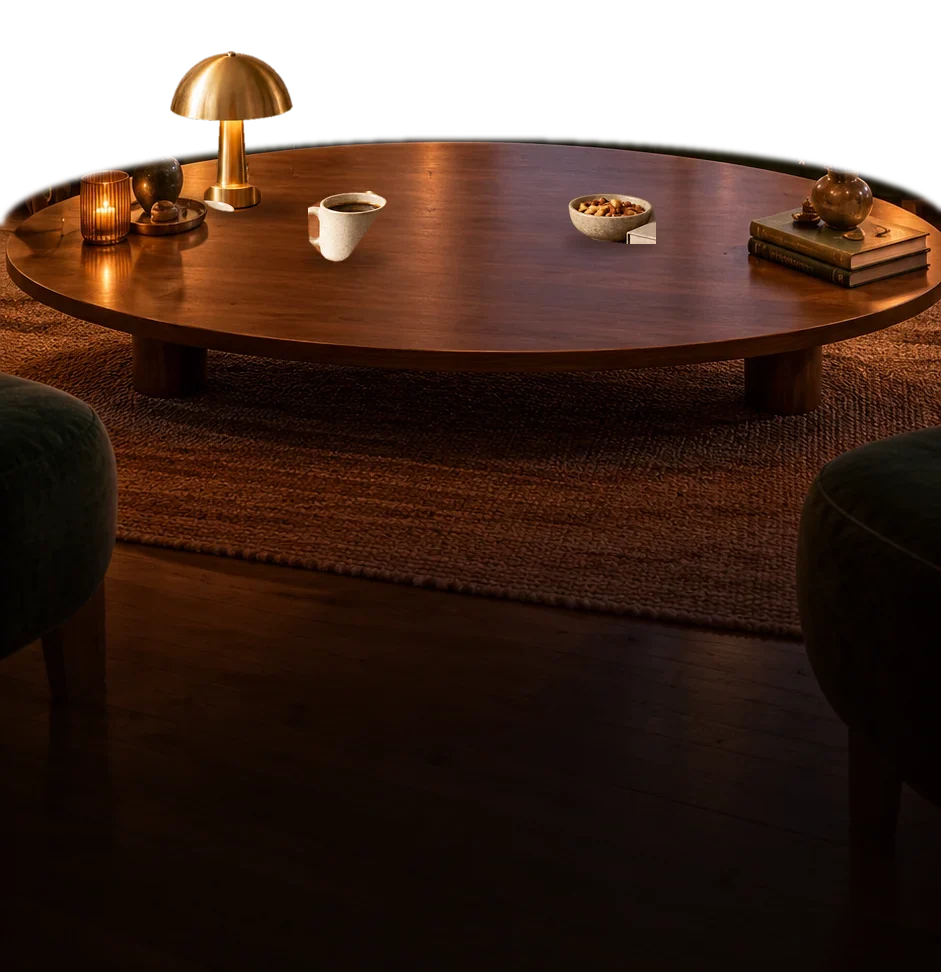
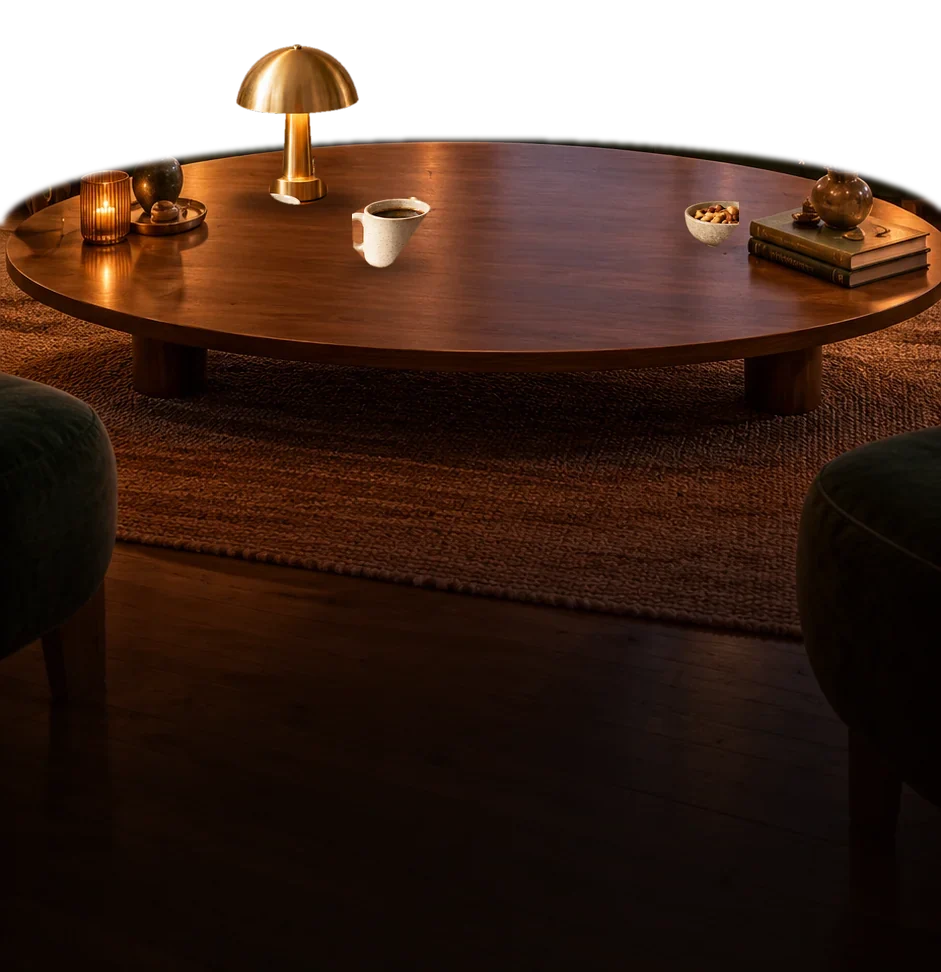
Ensemble : les fantômes s'assoient vraiment sur le canapé
Ils étaient posés devant le canapé, leur bas caché par la table. Ils
s'assoient maintenant au milieu des coussins relevés sur la photo (370, 582,
790), le bas sur l'assise et la tête au-dessus du dossier, avec une ombre de
contact sur le coussin et une ombre douce sur le dossier. Le cadrage
s'élargit pour garder les trois places ; la lampe, la tasse et le bol sont
reposés pour ce cadrage, et le partage réel s'installe entre eux.

Claude-Session: https://claude.ai/code/session_01C9atY36YJveCS87MrysGbG

Changed region(s): [[0.1849, 0.0309, 0.4623, 0.3086], [0.5855, 0.1852, 0.8013, 0.2778]]

diff --git a/src/app/autour-de-moi/alcove.tsx b/src/app/autour-de-moi/alcove.tsx
@@ -59,17 +59,17 @@ export const DECOR = {
   devantY: 700,
   l: 941,
   h: 1672,
-  cadre: { x0: 205, x1: 735, assise: 790, part: 0.47 },
-  /** Le milieu de chaque place, de gauche à droite. */
-  places: [300, 470, 640],
-  /** Le bas des fantômes : juste sous le bord arrière du plateau (≈ 840). */
-  bas: 872,
-  /** La hauteur d'un fantôme assis. */
-  hauteur: 205,
+  cadre: { x0: 265, x1: 895, assise: 790, part: 0.47 },
+  /** Le milieu de chaque coussin occupé, de gauche à droite (relevé sur la photo). */
+  places: [370, 582, 790],
+  /** Le bas des fantômes : posé sur l'assise (de 735 au fond à 775 au bord), pas devant. */
+  bas: 795,
+  /** La hauteur d'un fantôme assis : la tête dépasse du dossier (haut vers 620). */
+  hauteur: 215,
   /** Le creux du coussin, pour la place libre. */
-  coussin: 772,
+  coussin: 755,
   /** Le centre de la zone libre du plateau, et la largeur d'une photo posée. */
-  plateau: { x: 470, y: 922, l: 150 },
+  plateau: { x: 545, y: 930, l: 150 },
 } as const;
 
 const reduit = () => typeof window !== "undefined" && window.matchMedia?.("(prefers-reduced-motion: reduce)").matches;
@@ -113,7 +113,7 @@ export function cadrage(W: number, H: number) {
   if (l * s < W) s = W / l;
   const ox = Math.min(Math.max(((cadre.x0 + cadre.x1) / 2) * s - W / 2, 0), l * s - W);
   // Petit écran : la scène remonte un peu, pour laisser la table au-dessus du titre.
-  const part = H < 600 ? cadre.part - 0.05 : cadre.part;
+  const part = H < 600 ? cadre.part - 0.01 : cadre.part;
   const oy = Math.min(Math.max(cadre.assise * s - part * H, 0), h * s - H);
   return { s, ox, oy, x: (v: number) => v * s - ox, y: (v: number) => v * s - oy };
 }
@@ -171,13 +171,18 @@ export function Alcove({
                   key={k}
                   className="al-coussin"
                   aria-hidden="true"
-                  style={{ left: x, top: c.y(DECOR.coussin), width: 150 * c.s, height: 80 * c.s }}
+                  style={{ left: x, top: c.y(DECOR.coussin), width: 190 * c.s, height: 70 * c.s }}
                 />
               );
             const img = p.qui === "moi" ? imageAssis("moi", decor) : imageAssis(p.qui, decor);
             const miroir = !img.frontal && k === places.length - 1;
             const arrive = p.qui === "moi" && installe && !calme;
-            return (
+            const lf = hf * img.r;
+            return [
+              // ASSIS POUR DE VRAI : l'ombre sur le dossier derrière lui, et
+              // celle de contact où il pèse sur le coussin.
+              <i key={`d${k}`} className="al-ombre-dos" aria-hidden="true" style={{ left: x + lf * 0.06, top: haut + hf * 0.42, width: lf * 0.95, height: hf * 0.5 }} />,
+              <i key={`c${k}`} className="al-ombre-assise" aria-hidden="true" style={{ left: x, top: c.y(DECOR.bas) - 6 * c.s, width: lf * 1.05, height: 30 * c.s }} />,
               // eslint-disable-next-line @next/next/no-img-element
               <img
                 key={k}
@@ -193,8 +198,8 @@ export function Alcove({
                   zIndex: k === 1 ? 3 : 2,
                   ...(miroir ? { scale: "-1 1" } : {}),
                 }}
-              />
-            );
+              />,
+            ];
           })}
           {/* eslint-disable-next-line @next/next/no-img-element */}
           <img
@@ -229,7 +234,7 @@ export function Alcove({
                   key={k}
                   type="button"
                   className="al-libre"
-                  style={{ left: x - 80 * c.s, top: c.y(DECOR.coussin - 95), width: 160 * c.s, height: 150 * c.s }}
+                  style={{ left: x - 85 * c.s, top: c.y(DECOR.coussin - 110), width: 170 * c.s, height: 165 * c.s }}
                   onClick={onPlaceLibre}
                   aria-label="Ta place ? Prendre une place dans ce salon"
                 >
@@ -269,7 +274,11 @@ function StylesAlcove() {
 .al.actif .al-lumiere{opacity:1;}
 .al.calme .al-lumiere{transition:none;}
 .al-fantome{position:absolute;max-width:none;pointer-events:none;object-fit:contain;object-position:50% 100%;
-  filter:brightness(.93) sepia(.08) drop-shadow(0 10px 12px rgba(24,10,2,.45));}
+  filter:brightness(.93) sepia(.08) drop-shadow(0 4px 5px rgba(20,8,0,.4));}
+.al-ombre-dos{position:absolute;z-index:2;transform:translate(-50%,-50%);border-radius:50%;pointer-events:none;
+  background:radial-gradient(ellipse,rgba(8,4,0,.42) 0%,rgba(8,4,0,.18) 45%,rgba(8,4,0,0) 70%);}
+.al-ombre-assise{position:absolute;z-index:2;transform:translate(-50%,-50%);border-radius:50%;pointer-events:none;
+  background:radial-gradient(ellipse,rgba(6,3,0,.62) 0%,rgba(6,3,0,.3) 45%,rgba(6,3,0,0) 72%);}
 .al-coussin{position:absolute;z-index:2;transform:translate(-50%,-50%);border-radius:50%;pointer-events:none;
   background:radial-gradient(ellipse,rgba(255,206,130,.26) 0%,rgba(255,190,110,.1) 48%,rgba(255,190,110,0) 72%);}
 .al.actif .al-coussin{animation:al-respire 3.6s ease-in-out infinite;}

diff --git a/docs/ensemble/outils/poser-objets.py b/docs/ensemble/outils/poser-objets.py
@@ -35,12 +35,12 @@ def masque_lampe(x0, y0, x1, y1):
 morceaux = {
     'lampe': ((60, 895, 280, 1172), masque_lampe),
     'tasse': ((40, 1150, 180, 1300), lambda *bx: masque_ceramique(*bx)),
-    'bol': ((628, 1098, 780, 1185), lambda *bx: masque_ceramique(*bx, 0.42, 0.38)),
+    'bol': ((628, 1098, 724, 1185), lambda *bx: masque_ceramique(*bx, 0.42, 0.38)),
 }
 dev = Image.open(dst + '/scene-canape-vert-devant.webp').convert('RGBA')
 DY = 700
 k = 0.6
-poses = {'lampe': (232, 912), 'tasse': (348, 962), 'bol': (612, 944)}
+poses = {'lampe': (298, 905), 'tasse': (392, 968), 'bol': (712, 948)}
 ombre = Image.new('L', dev.size, 0); od = ImageDraw.Draw(ombre)
 pieces = []
 for nom, ((x0, y0, x1, y1), fm) in morceaux.items():
